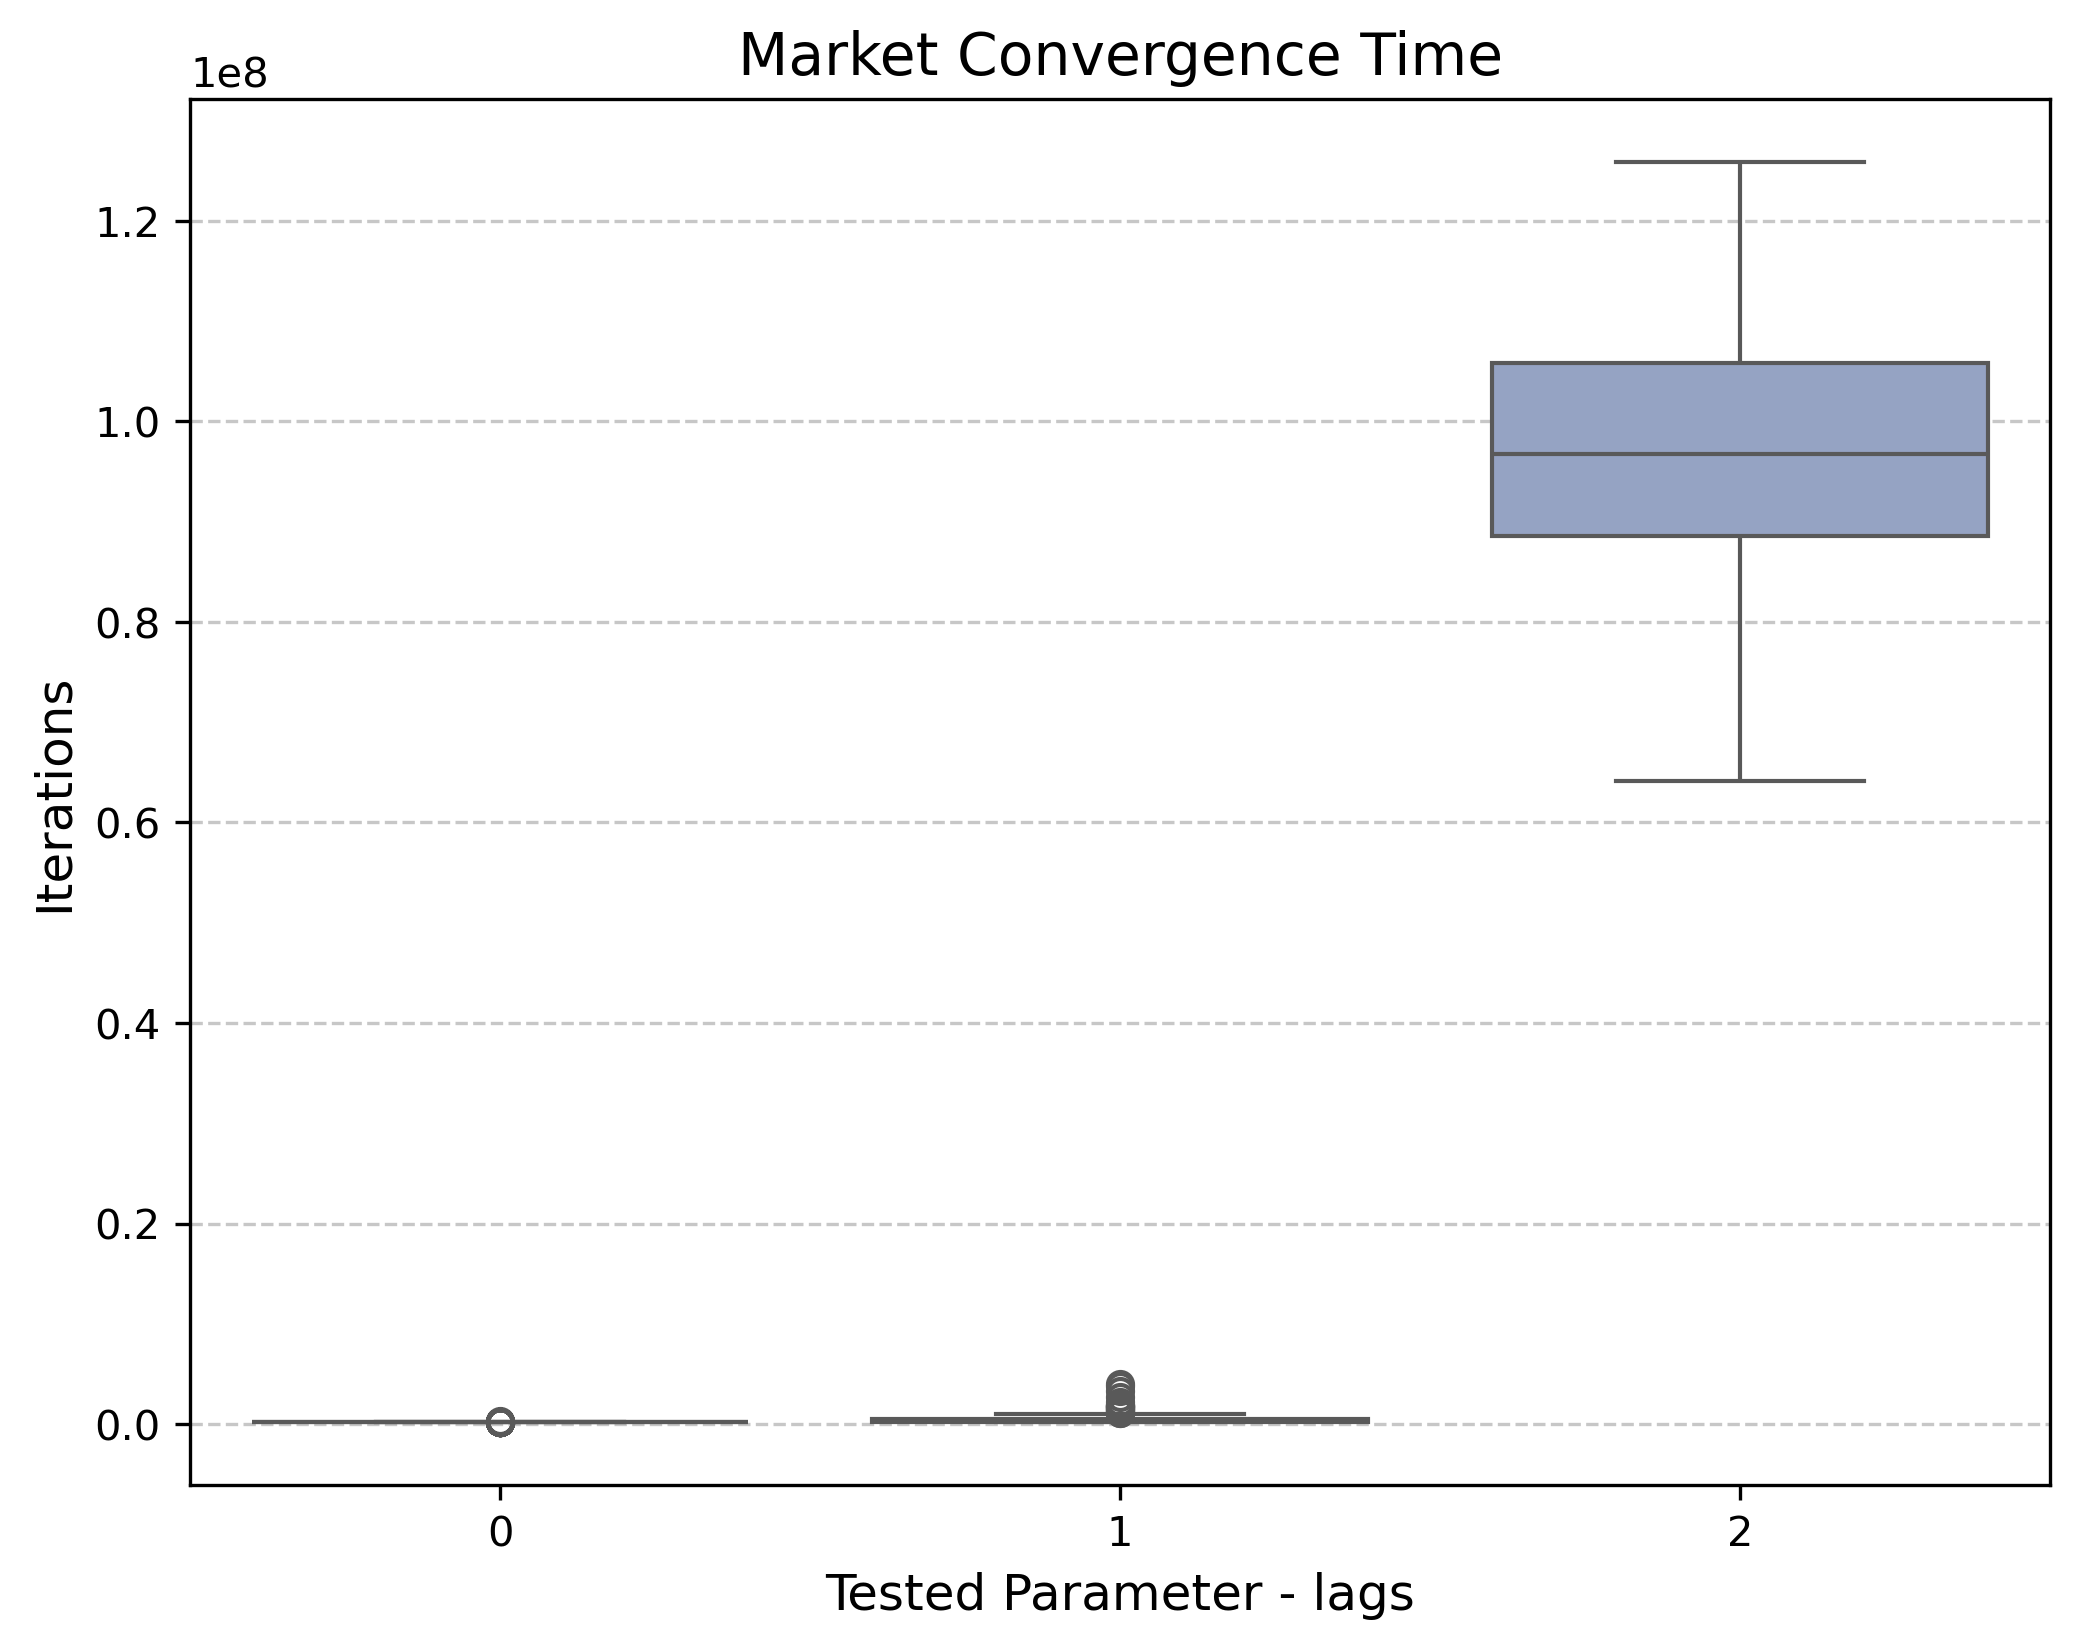
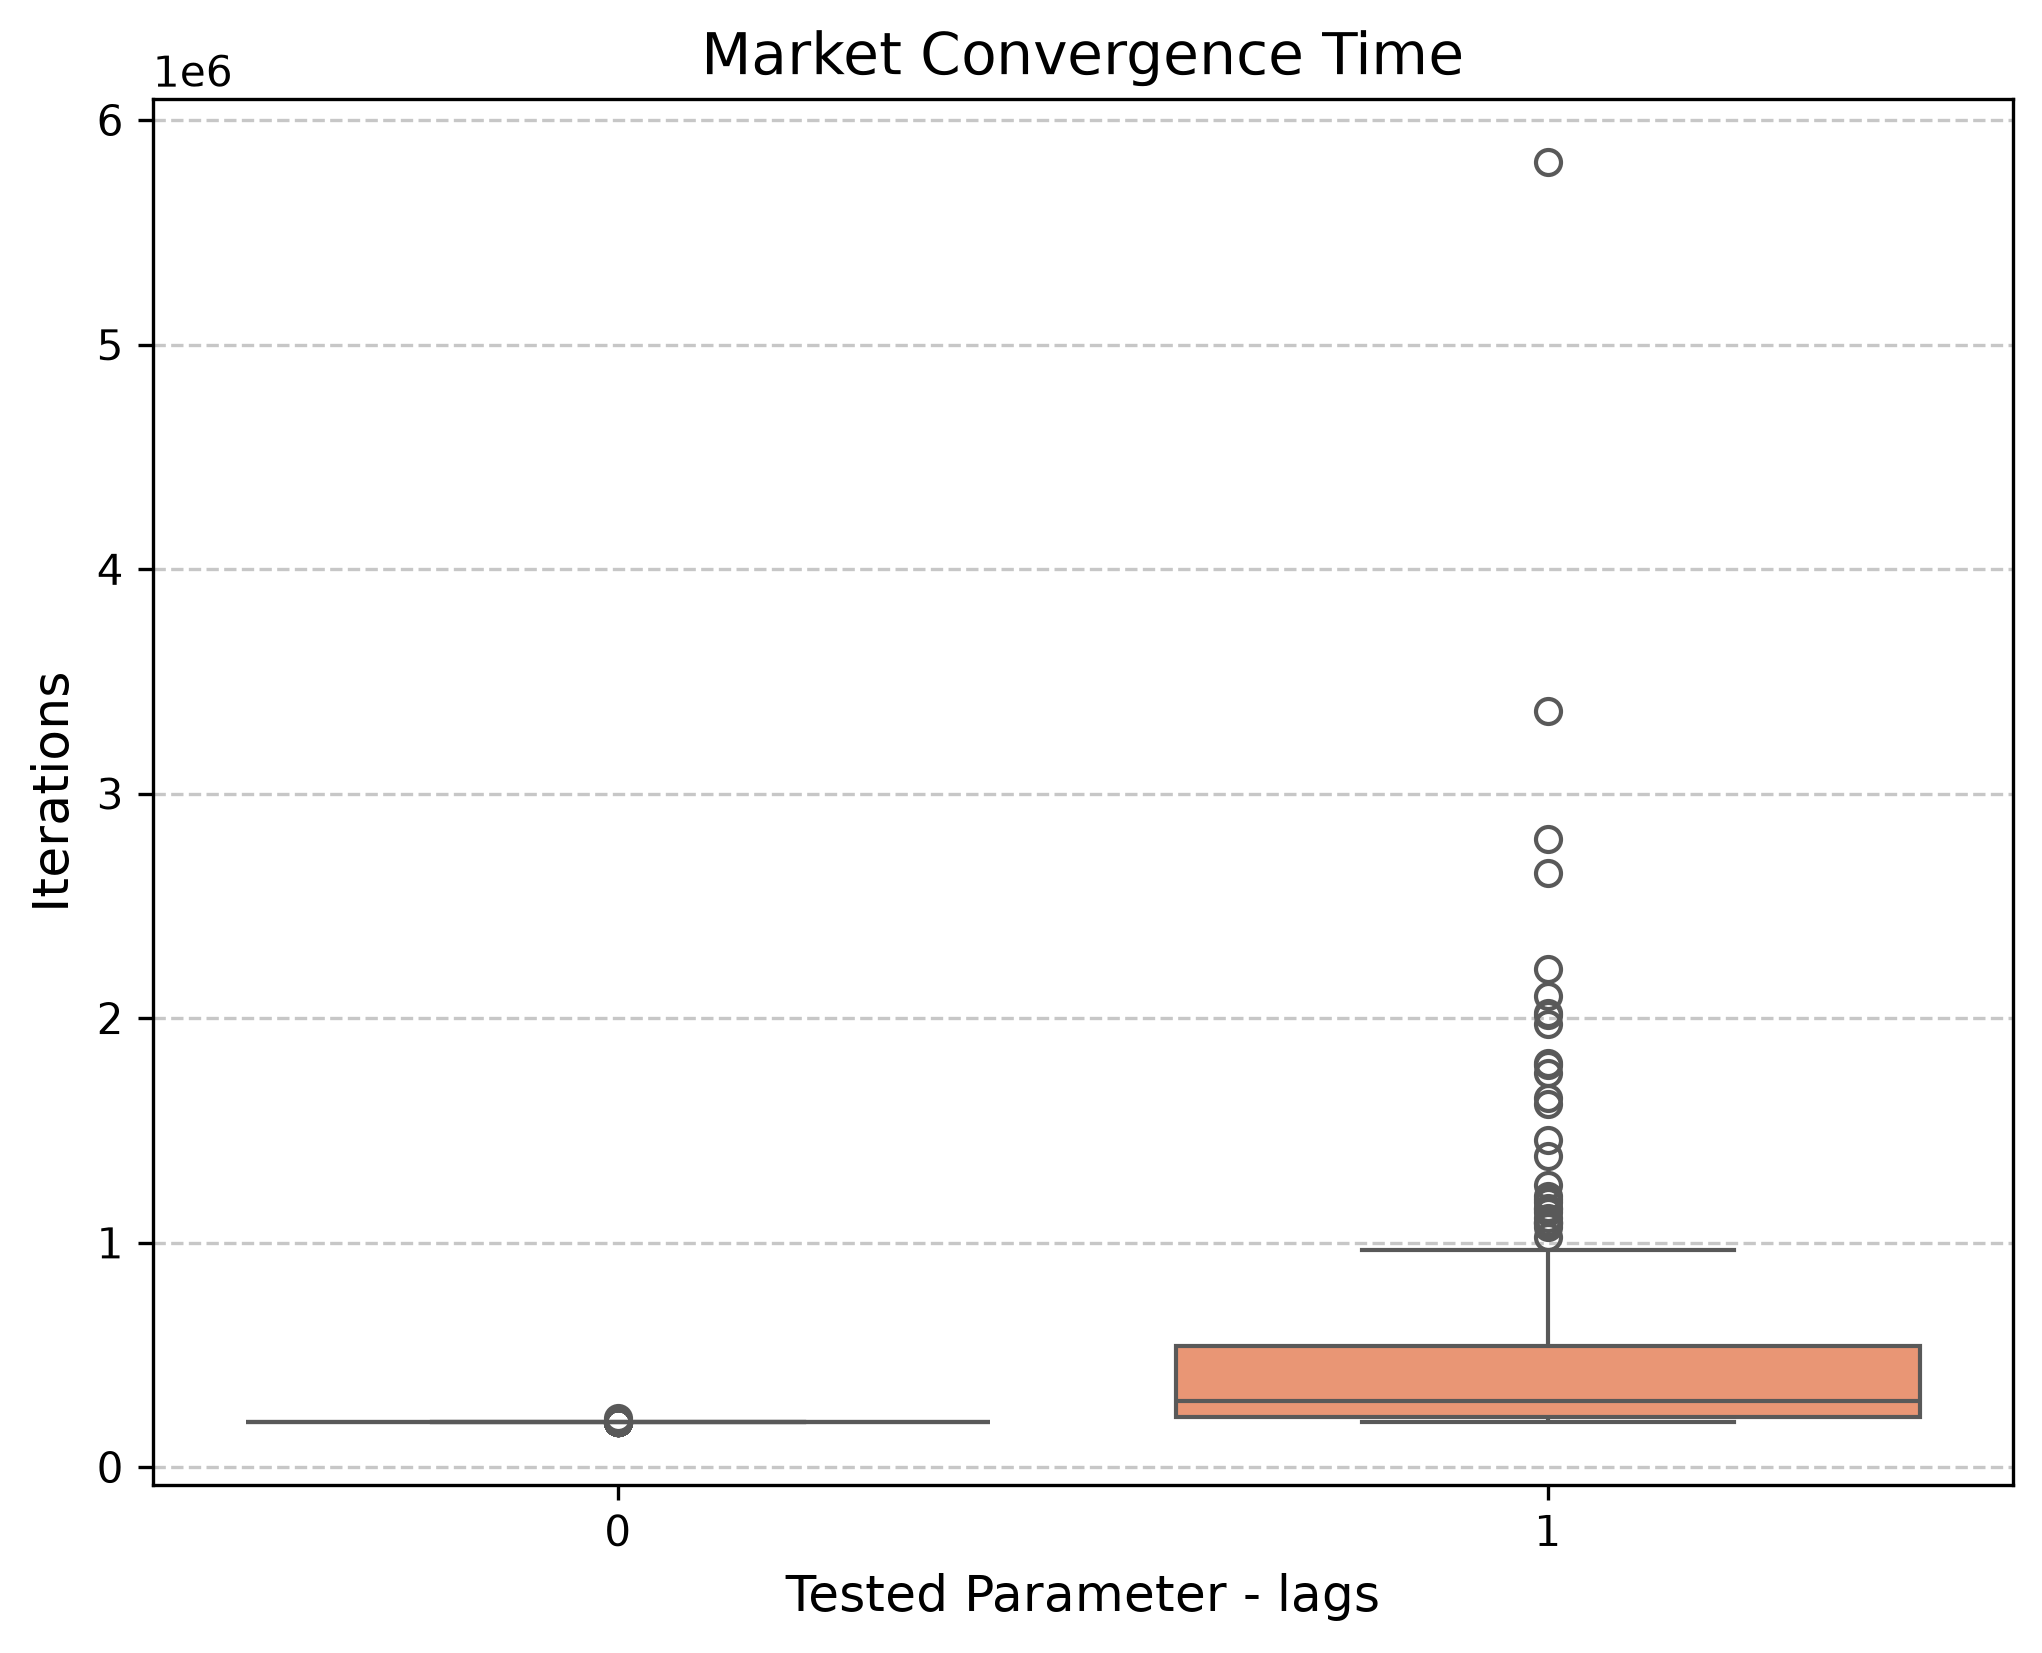
Exp floor update

diff --git a/Settings.py b/Settings.py
@@ -73,7 +73,7 @@ class Config:
 
         #initialize exploration length (needed on init so parameters input can be account for before calculating below)
         #based on above values     _States_                      _actions_             visit each ~X times
-        self.explorationlen = (self.prices_count**(self.firms*self.lags)) * 2 * (self.prices_count*self.investments_count) * 100
+        self.explorationlen = max((self.prices_count**(self.firms*self.lags)) * 2 * (self.prices_count*self.investments_count) * 300,1000000)
         self.epsilon_decay = -1/(self.explorationlen)
 
 

diff --git a/Main.py b/Main.py
@@ -393,6 +393,6 @@ def Simulate(ClusterTest=False,Progress=True):
             Price_statlog,Invest_statlog,Profits_statlog,State_logs,CS_Theory_Stat,CS_Real_Stat,M_Theory_Stat,M_Real_Stat,MarketShares_Stat,Round,
             config,params,args.iteration)
 
-Simulate(True,False) #cluster
-#Simulate() # local
+#Simulate(True,False) #cluster
+Simulate() # local
 #Simulate(True,True) #cluster progress

diff --git a/README.md b/README.md
@@ -35,4 +35,4 @@ Simulation parameters can be provided as command-line options. For example:
 python Main.py --firms 2 --lags 1 --K 100 --objective profit
 ```
 
-See the arguments defined in `Main.py` for the full list of configurable parameters. Simulation outputs are written to the TrainingResults directories.
+See the arguments defined in `Main.py` for the full list of configurable parameters. Simulation outputs are written to the TrainingResults directories. The full list of parameters can also be modified directly in the `Settings.py` file. 
